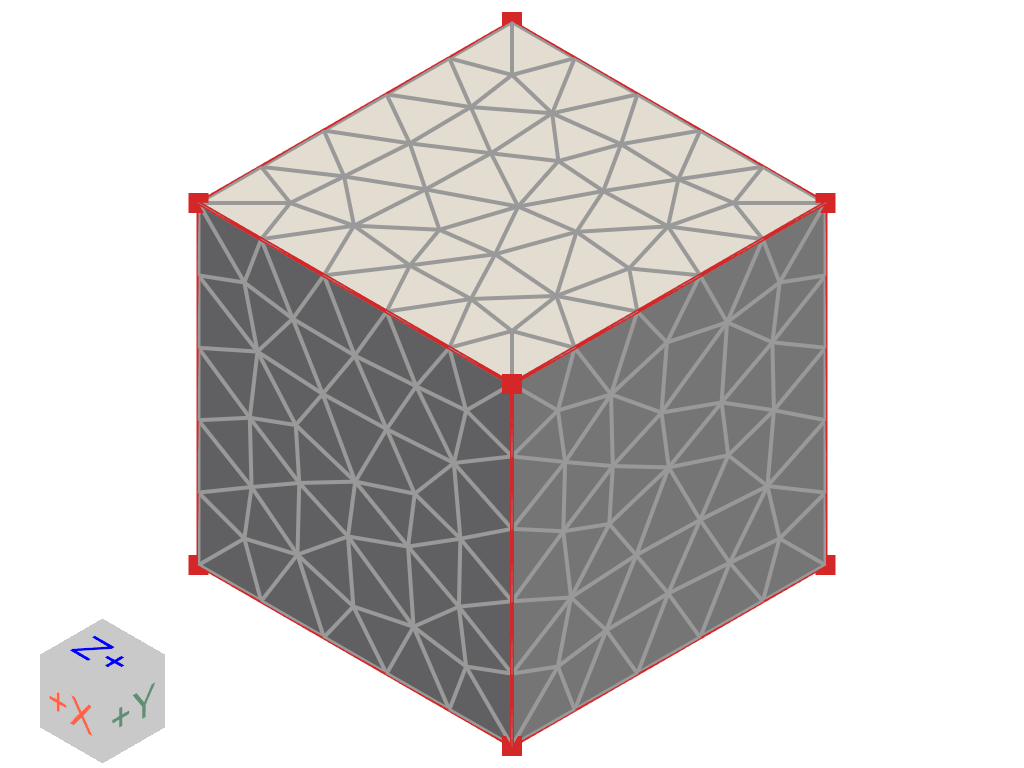
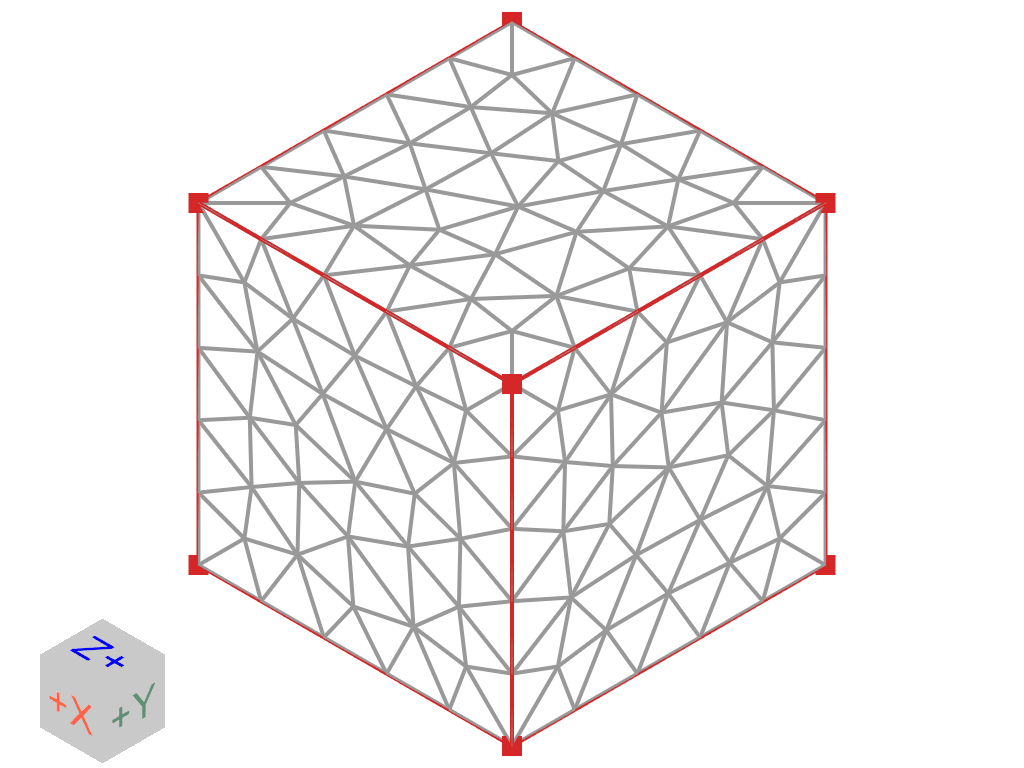
Set lightning off to make figure flat design

diff --git a/src/skgmsh/__init__.py b/src/skgmsh/__init__.py
@@ -64,7 +64,7 @@ def frontal_delaunay_2d(
     >>> mesh = sg.frontal_delaunay_2d(edge_source, target_sizes=2.0)
 
     >>> plotter = sg.Plotter(off_screen=True)
-    >>> _ = plotter.add_mesh(mesh, show_edges=True, line_width=4, color="white", lighting=True, edge_color=[153, 153, 153])
+    >>> _ = plotter.add_mesh(mesh, show_edges=True, line_width=4, color="white", lighting=False, edge_color=[153, 153, 153])
     >>> _ = plotter.add_mesh(edge_source, show_edges=True, line_width=4, color=[214, 39, 40])
     >>> _ = plotter.add_points(edge_source.points, style="points", point_size=20, color=[214, 39, 40])
     >>> _ = plotter.add_legend([[" edge source", [214, 39, 40]], [" mesh ", [153, 153, 153]]], bcolor="white", face="r", size=(0.3, 0.3))
@@ -147,7 +147,7 @@ def delaunay_3d(
     >>> mesh = sg.delaunay_3d(edge_source, target_sizes=0.2)
 
     >>> plotter = sg.Plotter(off_screen=True)
-    >>> _ = plotter.add_mesh(mesh, show_edges=True, line_width=4, color="white", lighting=True, edge_color=[153, 153, 153])
+    >>> _ = plotter.add_mesh(mesh, show_edges=True, line_width=4, color="white", lighting=False, edge_color=[153, 153, 153])
     >>> _ = plotter.add_mesh(edge_source.extract_all_edges(), line_width=4, color=[214, 39, 40])
     >>> _ = plotter.add_points(edge_source.points, style="points", point_size=20, color=[214, 39, 40])
     >>> plotter.enable_parallel_projection()
@@ -170,7 +170,7 @@ def delaunay_3d(
     ...     show_edges=True,
     ...     line_width=4,
     ...     color="white",
-    ...     lighting=True,
+    ...     lighting=False,
     ...     edge_color=[153, 153, 153],
     ... )
     >>> _ = plotter.add_mesh(edge_source.extract_all_edges(), line_width=4, color=[214, 39, 40])

diff --git a/README.md b/README.md
@@ -71,7 +71,7 @@ _ = plotter.add_mesh(
     show_edges=True,
     line_width=4,
     color="white",
-    lighting=True,
+    lighting=False,
     edge_color=[153, 153, 153],
 )
 _ = plotter.add_mesh(edge_source, show_edges=True, line_width=4, color=[214, 39, 40])
@@ -105,7 +105,7 @@ _ = plotter.add_mesh(
     show_edges=True,
     line_width=4,
     color="white",
-    lighting=True,
+    lighting=False,
     edge_color=[153, 153, 153],
 )
 _ = plotter.add_mesh(edge_source.extract_all_edges(), line_width=4, color=[214, 39, 40])
